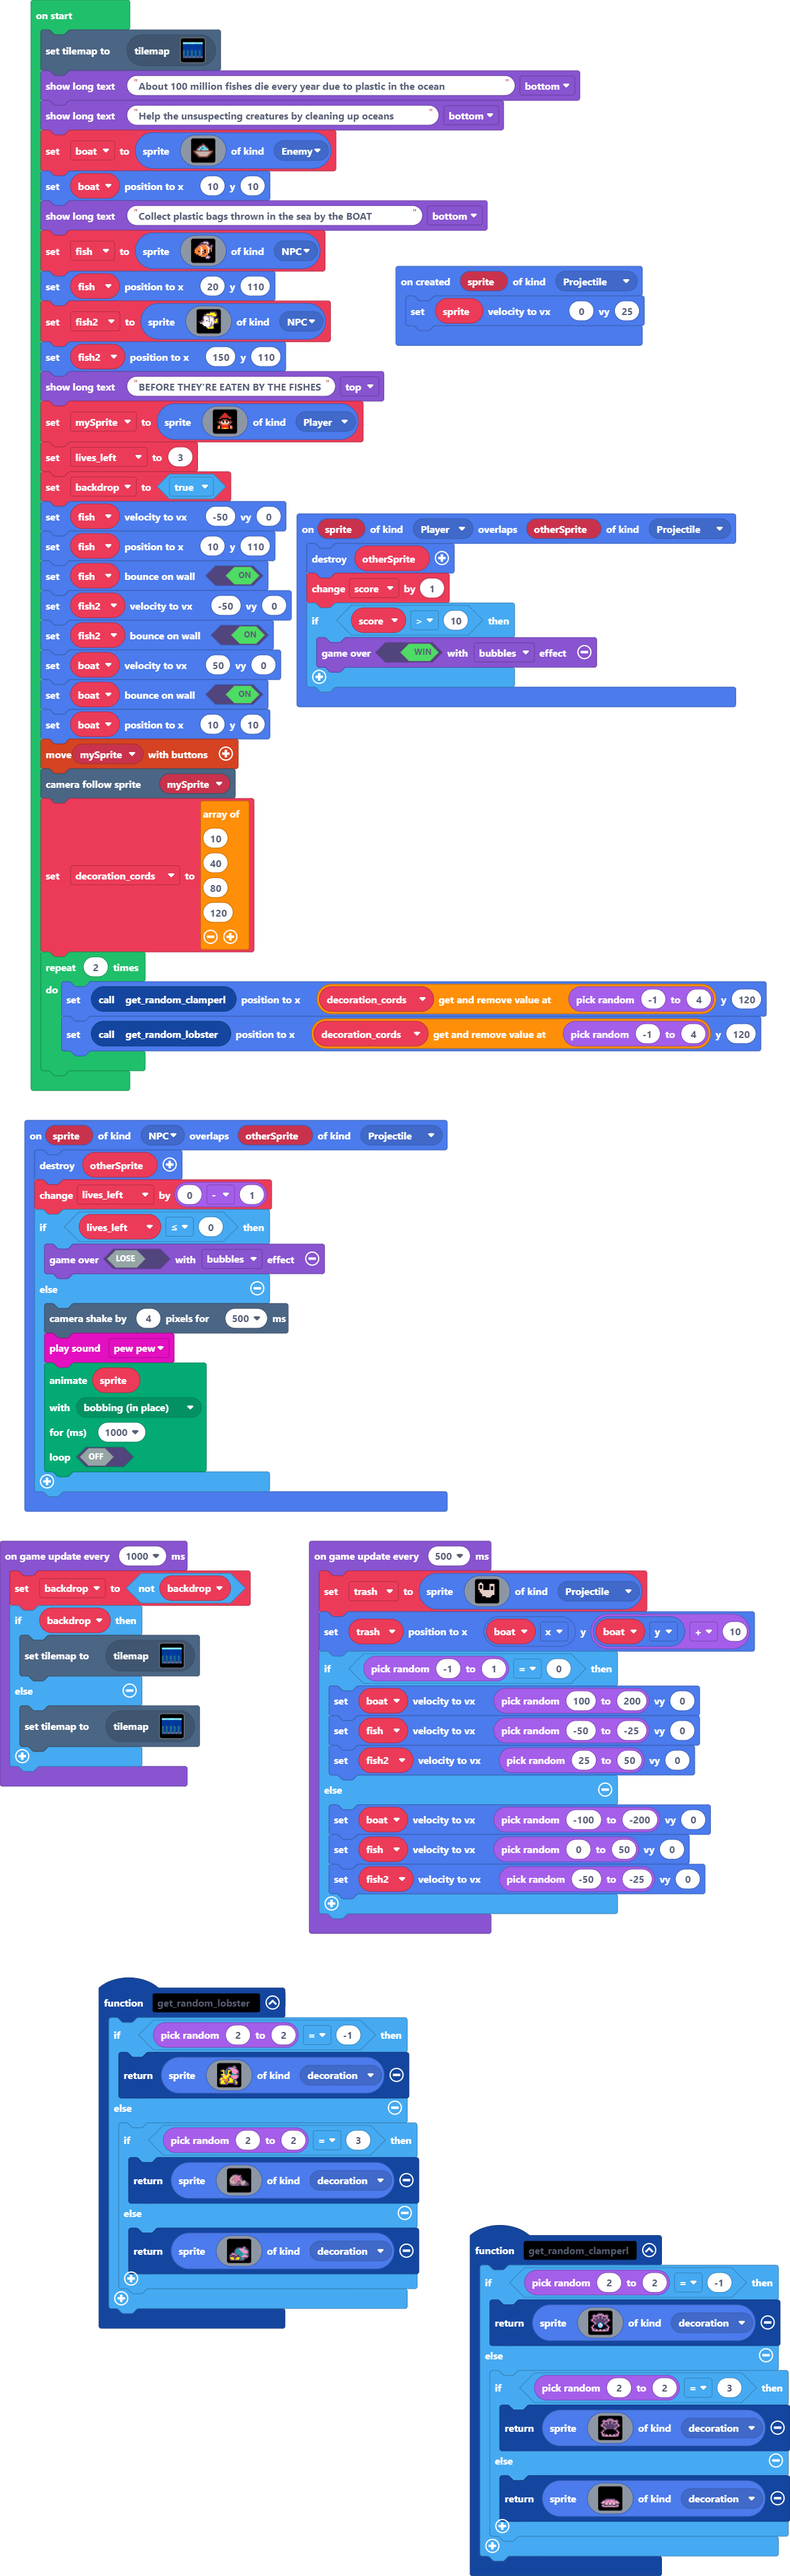
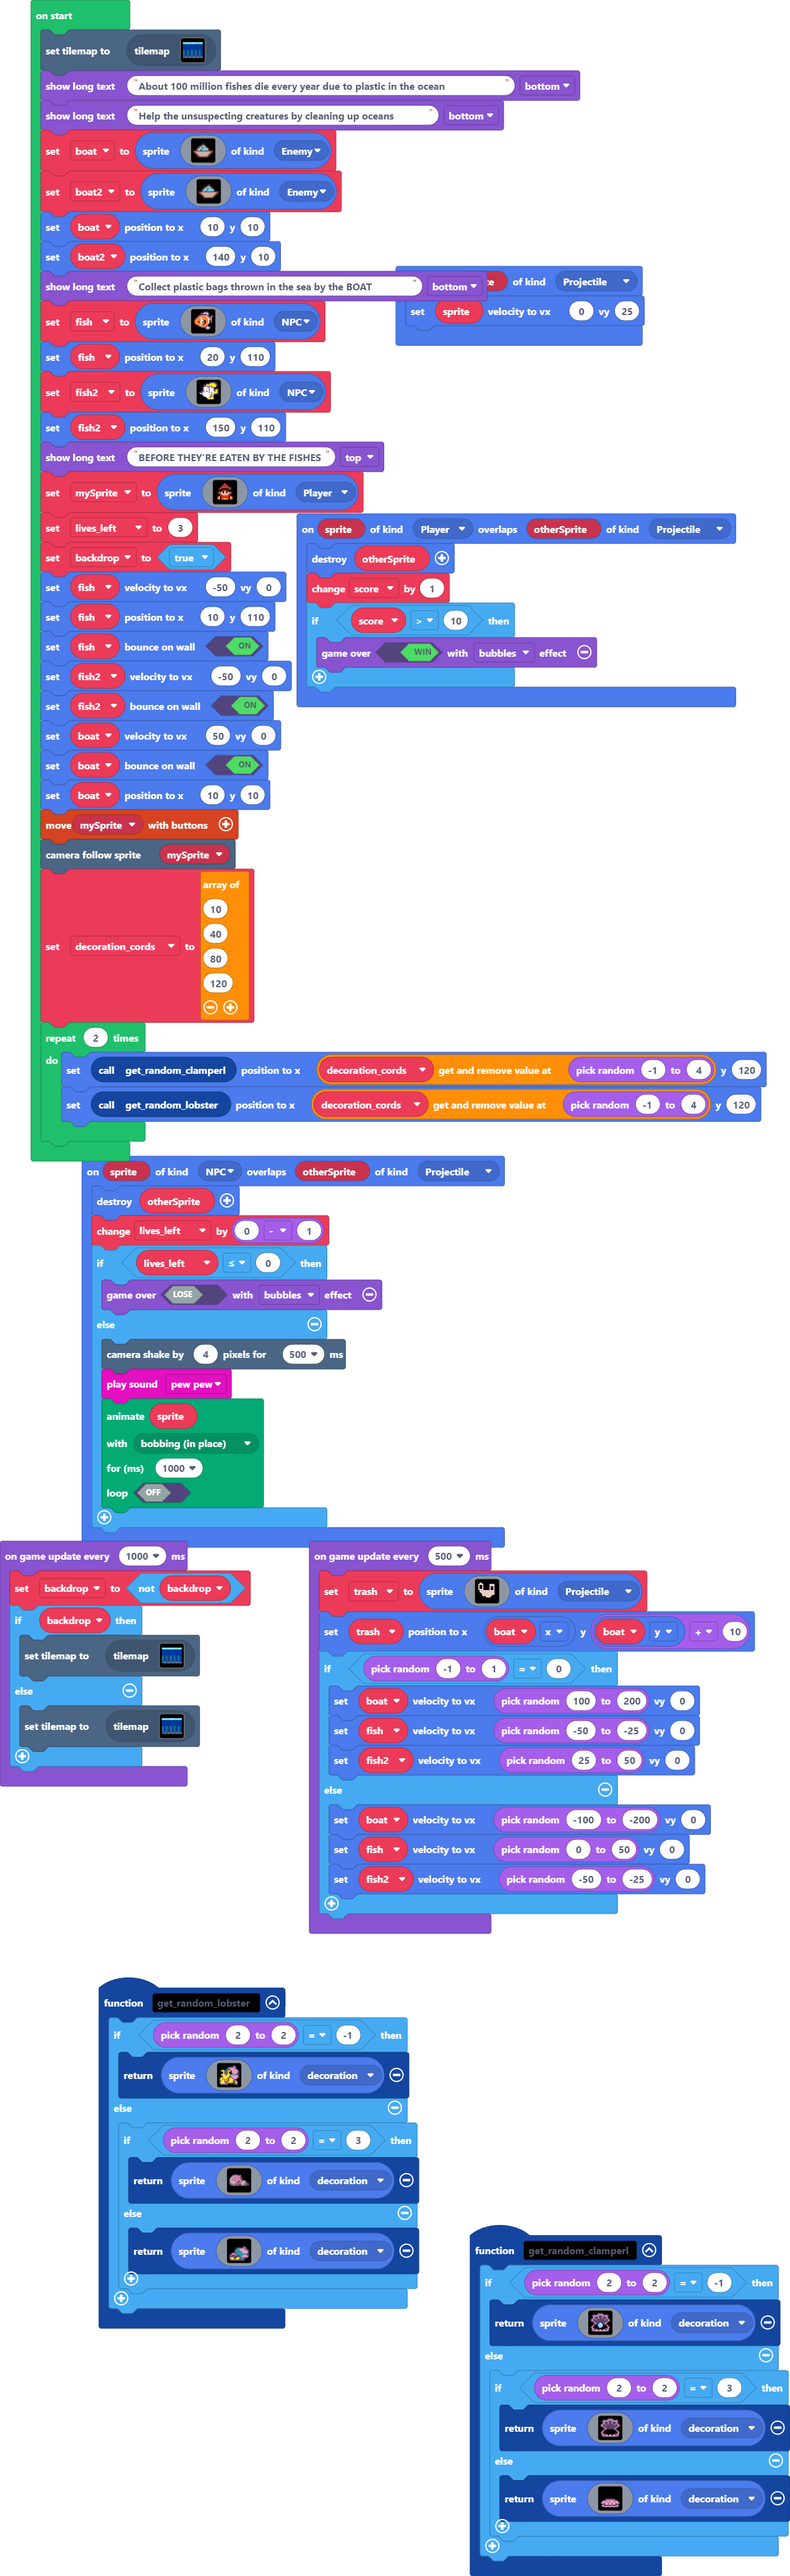
Update pxt.json, main.blocks, main.ts

Changed region(s): [[0.0305, 0.0625, 0.9773, 0.6247]]

diff --git a/main.ts b/main.ts
@@ -151,6 +151,7 @@ sprites.onCreated(SpriteKind.Projectile, function (sprite) {
     sprite.setVelocity(0, 25)
 })
 let trash: Sprite = null
+let trash2: Sprite = null
 let score = 0
 let lives_left = 0
 tiles.setCurrentTilemap(tilemap`backdrop1`)
@@ -178,7 +179,30 @@ let boat = sprites.create(img`
     ....................
     ....................
     `, SpriteKind.Enemy)
+let boat2 = sprites.create(img`
+    ....................
+    ....................
+    ....................
+    .........ee.........
+    ........eeee........
+    ......eee999e.......
+    .....ee99999ee......
+    ....ee99989999e.....
+    ...ee9918999999e....
+    ...e99189999999e....
+    eeeeeeeeeeeeeeeeeeee
+    eeddddddddddddddddee
+    .eeddddddddddddddee.
+    ..eeddddddddddddee..
+    ...eeddddddddddee...
+    ....eeddddddddee....
+    .....eeeeeeeeee.....
+    ....................
+    ....................
+    ....................
+    `, SpriteKind.Enemy)
 boat.setPosition(10, 10)
+boat2.setPosition(140, 10)
 game.showLongText("Collect plastic bags thrown in the sea by the BOAT", DialogLayout.Bottom)
 let fish = sprites.create(img`
     . . . . . . . . c c c c . . . . 
@@ -247,6 +271,9 @@ fish2.setBounceOnWall(true)
 boat.setVelocity(50, 0)
 boat.setBounceOnWall(true)
 boat.setPosition(10, 10)
+boat2.setVelocity(50, 0)
+boat2.setBounceOnWall(true)
+boat2.setPosition(140, 10)
 controller.moveSprite(mySprite)
 scene.cameraFollowSprite(mySprite)
 let decoration_cords = [
@@ -267,7 +294,7 @@ game.onUpdateInterval(1000, function () {
         tiles.setCurrentTilemap(tilemap`backdrop2`)
     }
 })
-game.onUpdateInterval(500, function () {
+game.onUpdateInterval(1000, function () {
     trash = sprites.create(img`
         . . . . . . . . . . . . . . . . 
         . . d d . . . . . . . . . . . . 
@@ -287,6 +314,25 @@ game.onUpdateInterval(500, function () {
         . . . . . . . . . . . . . . . . 
         `, SpriteKind.Projectile)
     trash.setPosition(boat.x, boat.y + 10)
+    trash2 = sprites.create(img`
+        . . . . . . . . . . . . . . . . 
+        . . d d . . . . . . . . . . . . 
+        . d d d d . . . . . d d d d . . 
+        . d . . d . . . . . d d d d . . 
+        . d . . d . . . . . d . . d . . 
+        . d . . d . . . . . d . . d . . 
+        . d d d d . . . . . d . . d . . 
+        . . d d d d d d d d d d d d . . 
+        . . d d d d d d d d d d d d . . 
+        . . . d d d d d d d d d d d . . 
+        . . . . d d d d d d d d d d . . 
+        . . . . d d d d d d d d . . . . 
+        . . . . . . . d d d d . . . . . 
+        . . . . . . . . . . . . . . . . 
+        . . . . . . . . . . . . . . . . 
+        . . . . . . . . . . . . . . . . 
+        `, SpriteKind.Projectile)
+    trash2.setPosition(boat2.x, boat2.y + 10)
     if (randint(-1, 1) == 0) {
         boat.setVelocity(randint(100, 200), 0)
         fish.setVelocity(randint(-50, -25), 0)
